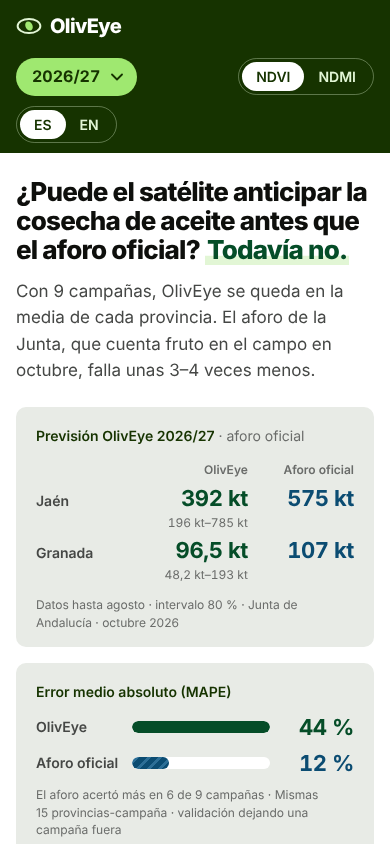
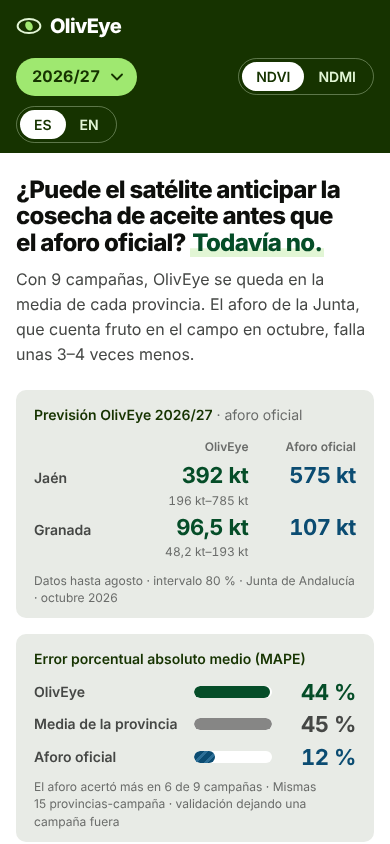
fix(web): apply finish review (baseline, mobile series, legend fit)
Show the province-mean baseline next to OlivEye and the aforo, label
MAPE correctly, keep the series drawer visible after a selection on
mobile, unpin the wrapped mobile top bar, fit the map clear of the
legend, key the selected-campaign highlight and fit the first viewport.

Changed region(s): [[0.0308, 0.2156, 0.9846, 1.0]]

diff --git a/web/components/Verdict.tsx b/web/components/Verdict.tsx
@@ -14,9 +14,34 @@ interface Props {
 export function Verdict({ lang, summary, forecast }: Props) {
   const ridge = summary.find((s) => s.model === "ridge");
   const aforo = summary.find((s) => s.model === "aforo");
+  const baseline = summary.find((s) => s.model === "province_mean");
   const modelError = ridge?.mape_pct ?? null;
   const aforoError = aforo?.mape_pct ?? null;
-  const scale = Math.max(modelError ?? 0, aforoError ?? 0) || 1;
+  const baselineError = baseline?.mape_pct ?? null;
+  const scale = Math.max(modelError ?? 0, aforoError ?? 0, baselineError ?? 0) || 1;
+  const bars = [
+    {
+      key: "model",
+      label: t(lang, "oliveye"),
+      value: modelError,
+      fill: styles.fillModel,
+      text: "",
+    },
+    {
+      key: "baseline",
+      label: t(lang, "provinceMean"),
+      value: baselineError,
+      fill: styles.fillBaseline,
+      text: styles.baseline,
+    },
+    {
+      key: "aforo",
+      label: t(lang, "aforo"),
+      value: aforoError,
+      fill: styles.fillAforo,
+      text: styles.official,
+    },
+  ];
   const rows = [...forecast.rows].sort((a, b) =>
     a.province === "Jaén" ? -1 : b.province === "Jaén" ? 1 : 0,
   );
@@ -74,36 +99,24 @@ export function Verdict({ lang, summary, forecast }: Props) {
           </figure>
 
           <figure className={styles.tile}>
-            <figcaption className={styles.tileTitle}>
-              {lang === "es" ? "Error medio absoluto (MAPE)" : "Mean absolute percentage error"}
-            </figcaption>
+            <figcaption className={styles.tileTitle}>{t(lang, "mapeTitle")}</figcaption>
             <dl className={styles.bars}>
-              <div className={styles.barRow}>
-                <dt>{t(lang, "oliveye")}</dt>
-                <dd>
-                  <span className={styles.track}>
-                    <span
-                      className={`${styles.fill} ${styles.fillModel}`}
-                      style={{ inlineSize: `${((modelError ?? 0) / scale) * 100}%` }}
-                    />
-                  </span>
-                  <span className={`${styles.value} num`}>{formatPercent(modelError, lang)}</span>
-                </dd>
-              </div>
-              <div className={styles.barRow}>
-                <dt>{t(lang, "aforo")}</dt>
-                <dd>
-                  <span className={styles.track}>
-                    <span
-                      className={`${styles.fill} ${styles.fillAforo}`}
-                      style={{ inlineSize: `${((aforoError ?? 0) / scale) * 100}%` }}
-                    />
-                  </span>
-                  <span className={`${styles.value} ${styles.official} num`}>
-                    {formatPercent(aforoError, lang)}
-                  </span>
-                </dd>
-              </div>
+              {bars.map((bar) => (
+                <div key={bar.key} className={styles.barRow}>
+                  <dt>{bar.label}</dt>
+                  <dd>
+                    <span className={styles.track}>
+                      <span
+                        className={`${styles.fill} ${bar.fill}`}
+                        style={{ inlineSize: `${((bar.value ?? 0) / scale) * 100}%` }}
+                      />
+                    </span>
+                    <span className={`${styles.value} ${styles.small} ${bar.text} num`}>
+                      {formatPercent(bar.value, lang)}
+                    </span>
+                  </dd>
+                </div>
+              ))}
             </dl>
             <p className={styles.note}>
               {ridge

diff --git a/web/components/Workbench.tsx b/web/components/Workbench.tsx
@@ -1,6 +1,6 @@
 "use client";
 
-import { useMemo, useState } from "react";
+import { useCallback, useMemo, useRef, useState } from "react";
 
 import { listRows, matchesSearch, sortRows, type Campaign, type SortMode } from "@/lib/campaigns";
 import { t } from "@/lib/i18n";
@@ -55,6 +55,18 @@ export function Workbench({
     const all = listRows(features, index, campaign).filter((r) => matchesSearch(r.name, query));
     return sortRows(all, sort, lang);
   }, [features, index, campaign, query, sort, lang]);
+
+  const mapArea = useRef<HTMLDivElement>(null);
+  // On narrow screens the map sits below the list: scroll so the series drawer is visible.
+  const select = useCallback(
+    (id: string | null) => {
+      onSelect(id);
+      if (id && window.matchMedia("(max-width: 860px)").matches) {
+        mapArea.current?.scrollIntoView({ behavior: "smooth", block: "end" });
+      }
+    },
+    [onSelect],
+  );
 
   const ramp = RAMPS[index];
   const selectedId = selected ? `${selected.province_code}-${selected.municipality_code}` : null;
@@ -113,7 +125,7 @@ export function Workbench({
                   type="button"
                   className={styles.row}
                   aria-pressed={row.id === selectedId}
-                  onClick={() => onSelect(row.id === selectedId ? null : row.id)}
+                  onClick={() => select(row.id === selectedId ? null : row.id)}
                 >
                   <span
                     className={styles.swatch}
@@ -134,7 +146,7 @@ export function Workbench({
         </ul>
       </aside>
 
-      <div className={styles.mapArea}>
+      <div ref={mapArea} className={styles.mapArea}>
         <OliveMap
           lang={lang}
           campaign={campaign}
@@ -142,7 +154,7 @@ export function Workbench({
           breaks={breaks}
           selectedId={selectedId}
           onFeatures={onFeatures}
-          onSelect={onSelect}
+          onSelect={select}
         />
         <Legend lang={lang} campaign={campaign} index={index} breaks={breaks} />
         <SeriesPanel

diff --git a/web/components/Verdict.module.css b/web/components/Verdict.module.css
@@ -5,7 +5,7 @@
 .inner {
   max-width: 1440px;
   margin: 0 auto;
-  padding: 32px var(--gutter) 28px;
+  padding: 22px var(--gutter) 20px;
   display: grid;
   grid-template-columns: minmax(0, 1.05fr) minmax(0, 1.4fr);
   gap: clamp(24px, 4vw, 56px);
@@ -13,7 +13,7 @@
 }
 
 .question {
-  font-size: clamp(26px, 2.6vw, 36px);
+  font-size: clamp(24px, 2.2vw, 32px);
   font-weight: 800;
   line-height: 1.12;
   letter-spacing: -0.03em;
@@ -27,9 +27,9 @@
 }
 
 .detail {
-  margin-top: 14px;
-  max-width: 52ch;
-  font-size: 17px;
+  margin-top: 10px;
+  max-width: 56ch;
+  font-size: 16px;
   line-height: 1.55;
 }
 
@@ -41,12 +41,12 @@
 
 .tile {
   margin: 0;
-  padding: 18px 20px 16px;
+  padding: 14px 18px 12px;
   background: var(--fog);
   border-radius: var(--radius-card);
   display: flex;
   flex-direction: column;
-  gap: 10px;
+  gap: 8px;
 }
 
 .tileTitle {
@@ -87,7 +87,7 @@
 }
 
 .value {
-  font-size: 26px;
+  font-size: 24px;
   font-weight: 700;
   color: var(--spruce);
   letter-spacing: -0.02em;
@@ -96,6 +96,14 @@
 
 .official {
   color: var(--signal);
+}
+
+.baseline {
+  color: var(--body);
+}
+
+.small {
+  font-size: 18px;
 }
 
 .range {
@@ -114,12 +122,12 @@
 .bars {
   margin: 0;
   display: grid;
-  gap: 10px;
+  gap: 6px;
 }
 
 .barRow {
   display: grid;
-  grid-template-columns: 5.5em 1fr;
+  grid-template-columns: 9.5em 1fr;
   align-items: center;
   gap: 8px;
 }
@@ -157,6 +165,10 @@
 
 .fillModel {
   background: var(--spruce);
+}
+
+.fillBaseline {
+  background: var(--hairline);
 }
 
 .fillAforo {

diff --git a/web/lib/i18n.ts b/web/lib/i18n.ts
@@ -15,6 +15,8 @@ const es = {
   forecastNote: "Datos hasta agosto · intervalo 80 %",
   aforoTitle: "Aforo oficial",
   aforoNote: "Junta de Andalucía · octubre 2026",
+  mapeTitle: "Error porcentual absoluto medio (MAPE)",
+  provinceMean: "Media de la provincia",
   modelErrorTitle: "Error medio de OlivEye",
   aforoErrorTitle: "Error medio del aforo",
   errorNote: "Mismas 15 provincias-campaña · validación dejando una campaña fuera",
@@ -53,6 +55,7 @@ const es = {
   oliveye: "OlivEye",
   forecast: "Previsión 2026/27",
   interval: "Intervalo 80 %",
+  selectedCampaign: "Campaña seleccionada",
   showTable: "Ver como tabla",
   hideTable: "Ocultar tabla",
   tonnes: "toneladas",
@@ -88,6 +91,8 @@ const en: Record<MessageKey, string> = {
   forecastNote: "Data up to August · 80 % interval",
   aforoTitle: "Official forecast (aforo)",
   aforoNote: "Junta de Andalucía · October 2026",
+  mapeTitle: "Mean absolute percentage error (MAPE)",
+  provinceMean: "Province average",
   modelErrorTitle: "OlivEye mean error",
   aforoErrorTitle: "Aforo mean error",
   errorNote: "Same 15 province-campaigns · leave-one-campaign-out validation",
@@ -125,6 +130,7 @@ const en: Record<MessageKey, string> = {
   oliveye: "OlivEye",
   forecast: "2026/27 forecast",
   interval: "80 % interval",
+  selectedCampaign: "Selected campaign",
   showTable: "Show as table",
   hideTable: "Hide table",
   tonnes: "tonnes",

diff --git a/web/components/ProvinceSection.tsx b/web/components/ProvinceSection.tsx
@@ -60,6 +60,10 @@ export function ProvinceSection({ lang, campaign, production, forecast }: Props)
             <span className={`${styles.mark} ${styles.markForecast}`} aria-hidden="true" />
             {t(lang, "forecast")} · {t(lang, "interval")}
           </li>
+          <li>
+            <span className={`${styles.mark} ${styles.markSelected}`} aria-hidden="true" />
+            {t(lang, "selectedCampaign")} ({campaign})
+          </li>
         </ul>
 
         <div className={styles.panels}>
@@ -134,7 +138,7 @@ function ProvincePanel({
             <ReferenceLine
               x={campaign}
               stroke="#9fe870"
-              strokeOpacity={0.45}
+              strokeOpacity={0.3}
               strokeWidth={22}
               ifOverflow="hidden"
             />

diff --git a/web/components/OliveMap.tsx b/web/components/OliveMap.tsx
@@ -133,7 +133,13 @@ export function OliveMap({
           container: container.current,
           style: BASEMAP,
           bounds: extent,
-          fitBoundsOptions: { padding: { top: 40, bottom: 40, left: 40, right: 40 } },
+          fitBoundsOptions: {
+            // Keep the measured olive area clear of the floating legend card.
+            padding:
+              container.current.clientWidth < 640
+                ? { top: 150, bottom: 70, left: 20, right: 20 }
+                : { top: 40, bottom: 90, left: 360, right: 60 },
+          },
           attributionControl: { compact: true },
           dragRotate: false,
           pitchWithRotate: false,

diff --git a/web/components/Workbench.module.css b/web/components/Workbench.module.css
@@ -1,7 +1,7 @@
 .workbench {
   display: grid;
   grid-template-columns: 320px minmax(0, 1fr);
-  height: max(560px, calc(100vh - var(--bar-height)));
+  height: max(560px, calc(100vh - var(--bar-height) - 276px));
   border-bottom: 1px solid var(--rule);
   scroll-margin-top: var(--bar-height);
 }

diff --git a/web/components/ProvinceSection.module.css b/web/components/ProvinceSection.module.css
@@ -72,6 +72,12 @@
     8px 8px;
 }
 
+.markSelected {
+  background: rgba(159, 232, 112, 0.45);
+  border-radius: 3px;
+  inline-size: 14px;
+}
+
 .panels {
   display: grid;
   grid-template-columns: repeat(2, minmax(0, 1fr));

diff --git a/web/components/TopBar.module.css b/web/components/TopBar.module.css
@@ -71,6 +71,9 @@
 }
 
 @media (max-width: 640px) {
+  .bar {
+    position: static;
+  }
   .inner {
     padding-block: 10px;
   }
